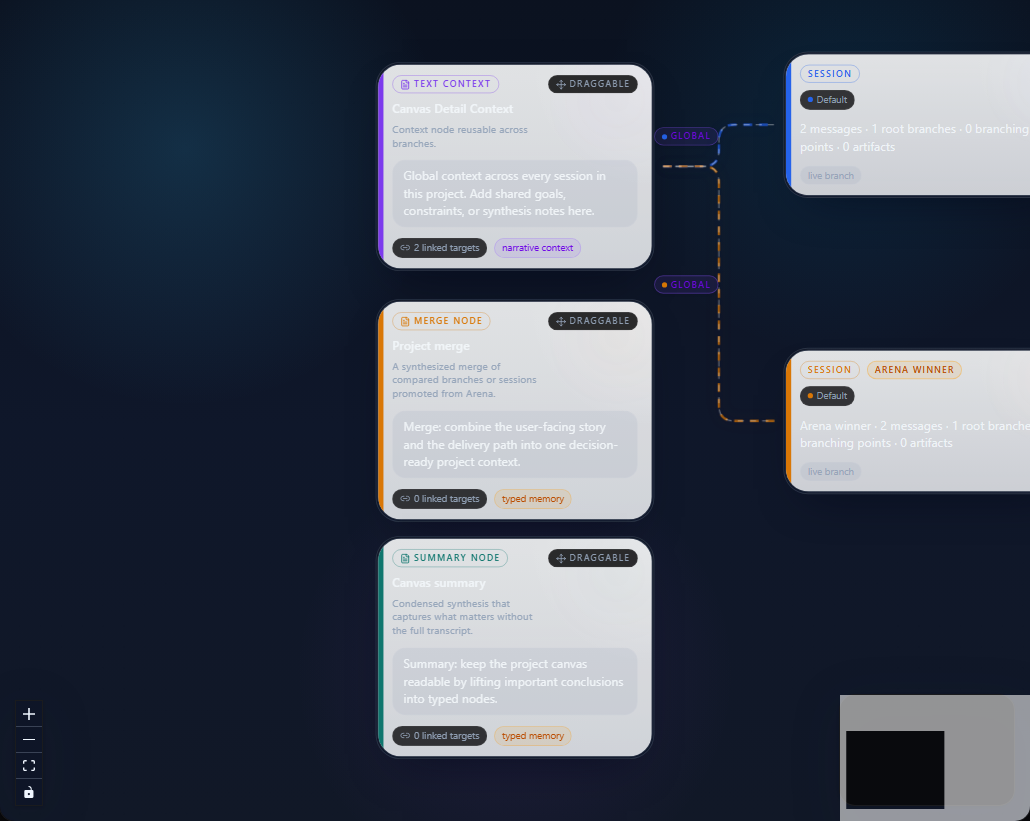
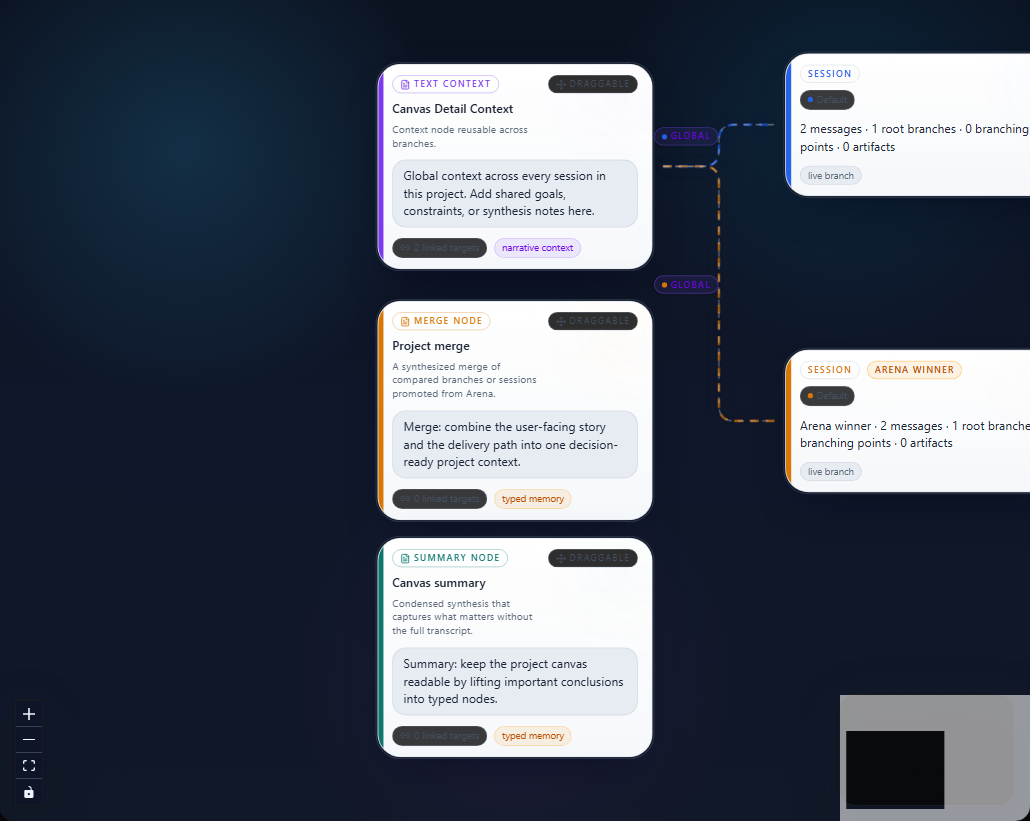
docs: improve README graph screenshot contrast

diff --git a/tests/e2e/readme-capture.spec.ts b/tests/e2e/readme-capture.spec.ts
@@ -206,14 +206,29 @@ async function applyReadmePolish(page: Page) {
         background: linear-gradient(180deg, rgba(30, 41, 59, 0.94), rgba(15, 23, 42, 0.92)) !important;
         border-color: rgba(148, 163, 184, 0.16) !important;
       }
+      .react-flow__node > div > div {
+        background: linear-gradient(180deg, rgba(255, 255, 255, 0.98), rgba(241, 245, 249, 0.96)) !important;
+        border-color: rgba(148, 163, 184, 0.18) !important;
+      }
+      .react-flow__node p,
+      .react-flow__node span,
+      .react-flow__node div {
+        text-shadow: none !important;
+      }
       .react-flow__node p {
-        color: rgba(241, 245, 249, 0.95) !important;
+        color: rgba(15, 23, 42, 0.92) !important;
+      }
+      .react-flow__node [class*="text-foreground"] {
+        color: rgba(15, 23, 42, 0.94) !important;
       }
       .react-flow__node [class*="text-muted-foreground"] {
-        color: rgba(148, 163, 184, 0.95) !important;
+        color: rgba(71, 85, 105, 0.88) !important;
       }
       .react-flow__node [class*="bg-muted"] {
-        background: rgba(148, 163, 184, 0.16) !important;
+        background: rgba(226, 232, 240, 0.78) !important;
+      }
+      .react-flow__node [class*="border-border"] {
+        border-color: rgba(148, 163, 184, 0.24) !important;
       }
       .react-flow__edge path {
         filter: drop-shadow(0 0 6px rgba(59, 130, 246, 0.15));